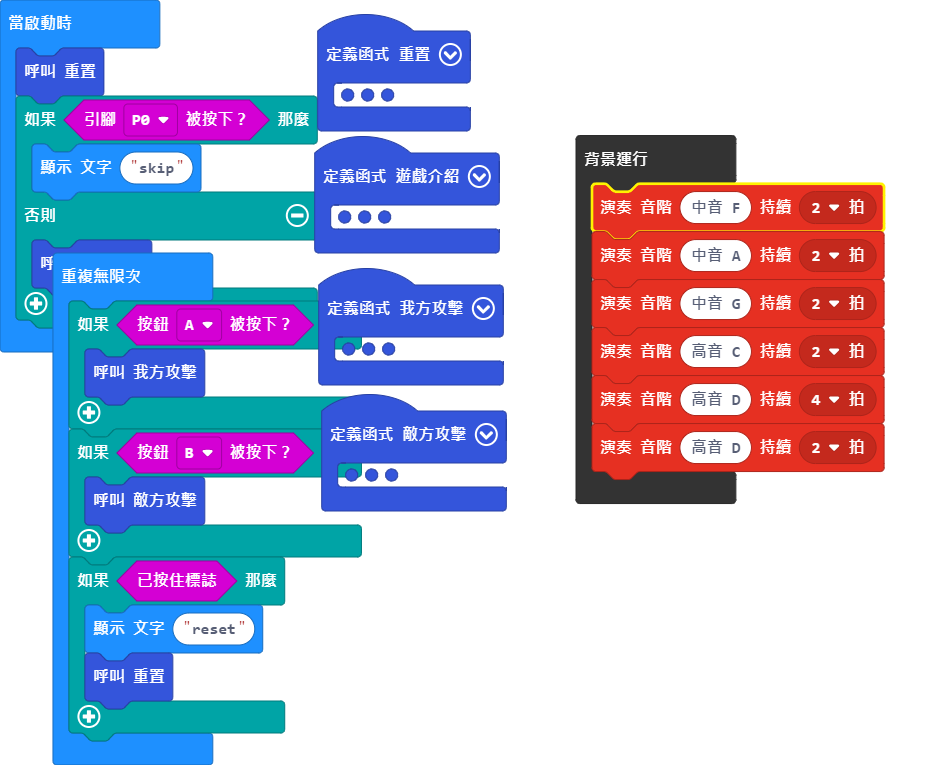
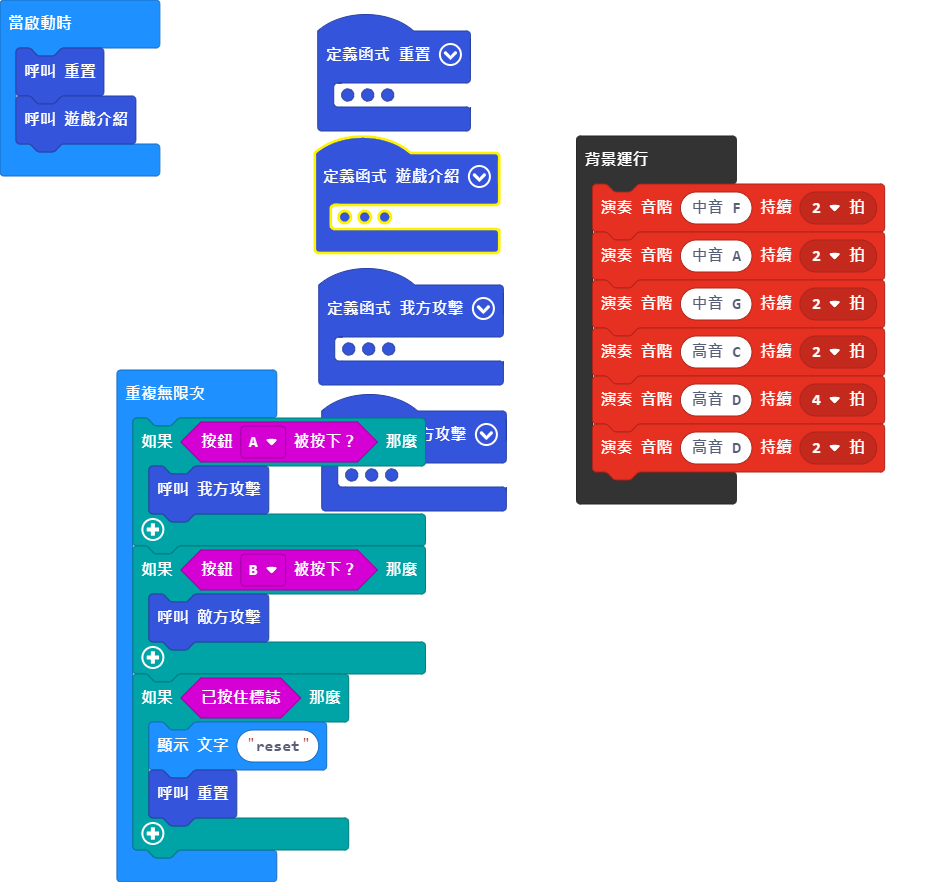
123123132123132123123132123123132332121321231231

diff --git a/main.ts b/main.ts
@@ -85,11 +85,7 @@ let 敵方等級 = 0
 let 敵方攻擊力 = 0
 let 我方生命 = 0
 重置()
-if (input.pinIsPressed(TouchPin.P0)) {
-    basic.showString("skip")
-} else {
-    遊戲介紹()
-}
+遊戲介紹()
 basic.forever(function () {
     if (input.buttonIsPressed(Button.A)) {
         我方攻擊()
